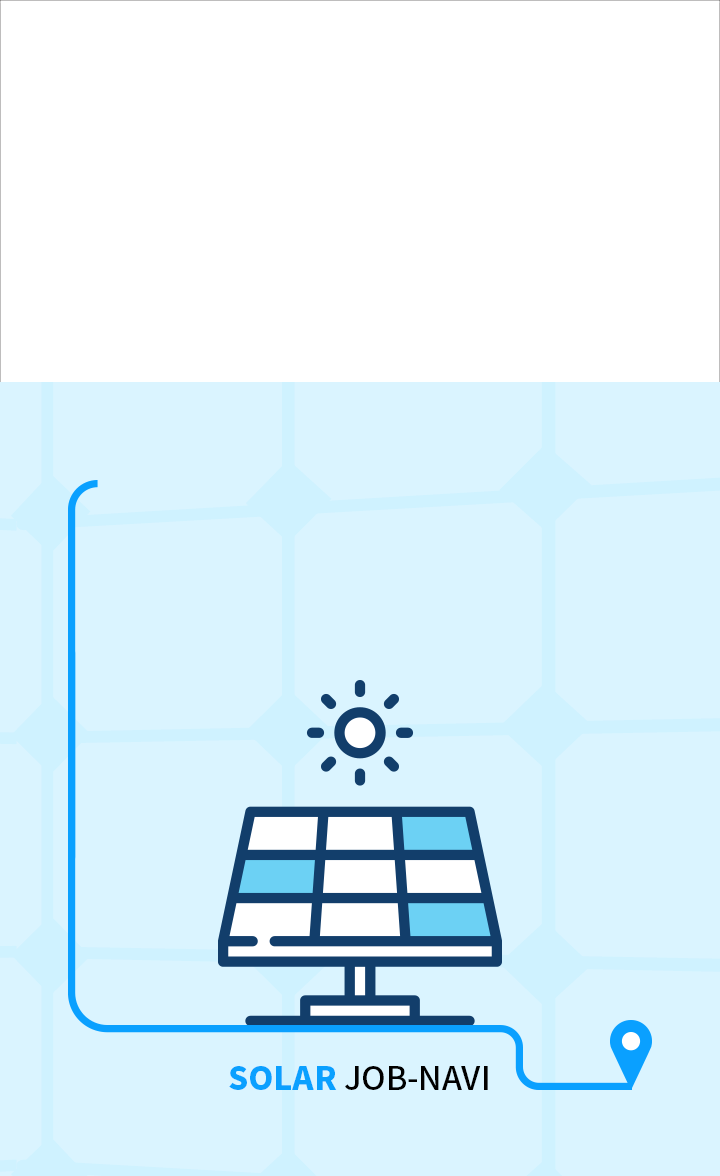
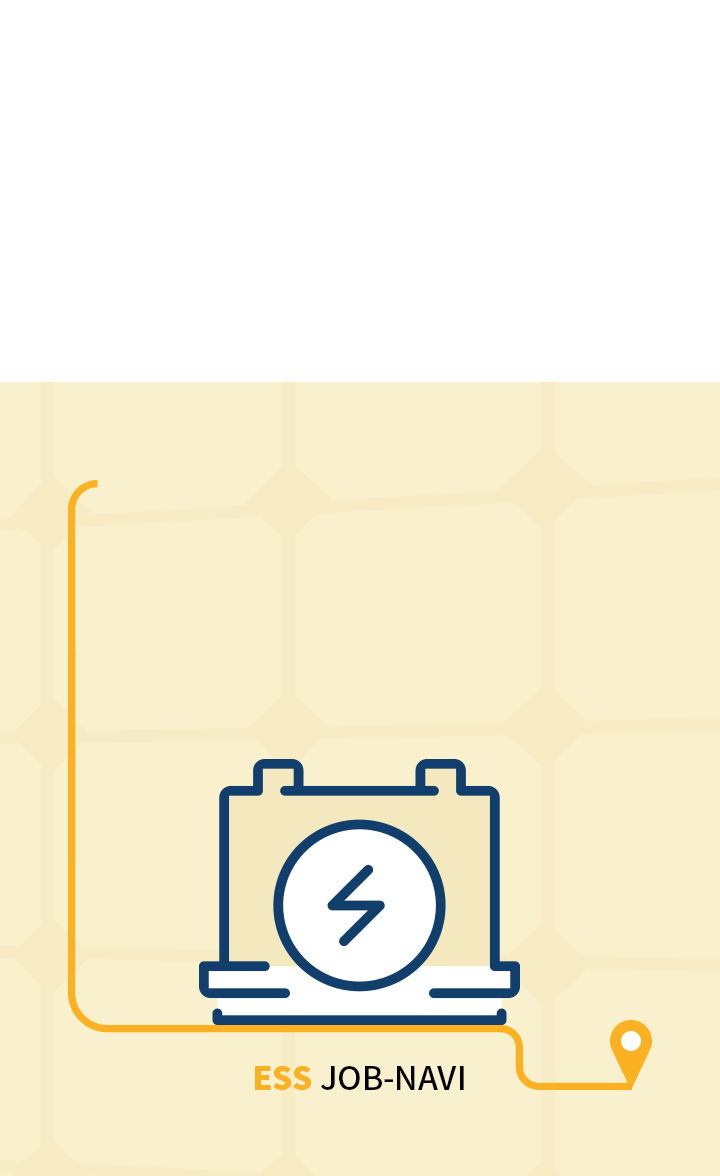
#모바일 수정

diff --git a/src/main/webapp/assets/ess/mobile/css/style.css b/src/main/webapp/assets/ess/mobile/css/style.css
@@ -926,7 +926,7 @@ button[type=button] { height: 48px; line-height: 48px; color: #999999; font-styl
 
 .mainimg_txt p:first-child{font-size: 1.813rem;line-height: 40px;letter-spacing: -1px;font-weight: 500;}
 .mainimg_txt p:last-child{margin-top: 85px;margin-left: 9.5%;font-weight: 500;font-size: 16px;}
-.blue_font {color: #0aa0ff;}
+.blue_font {color: #fcb122;}
 .mainimg_txt p:first-child .blue_font{font-weight: 700;}
 
 .swiper-content {background: url('../images/main01.png') 0 0 no-repeat;background-size: contain;height: 670px;}
